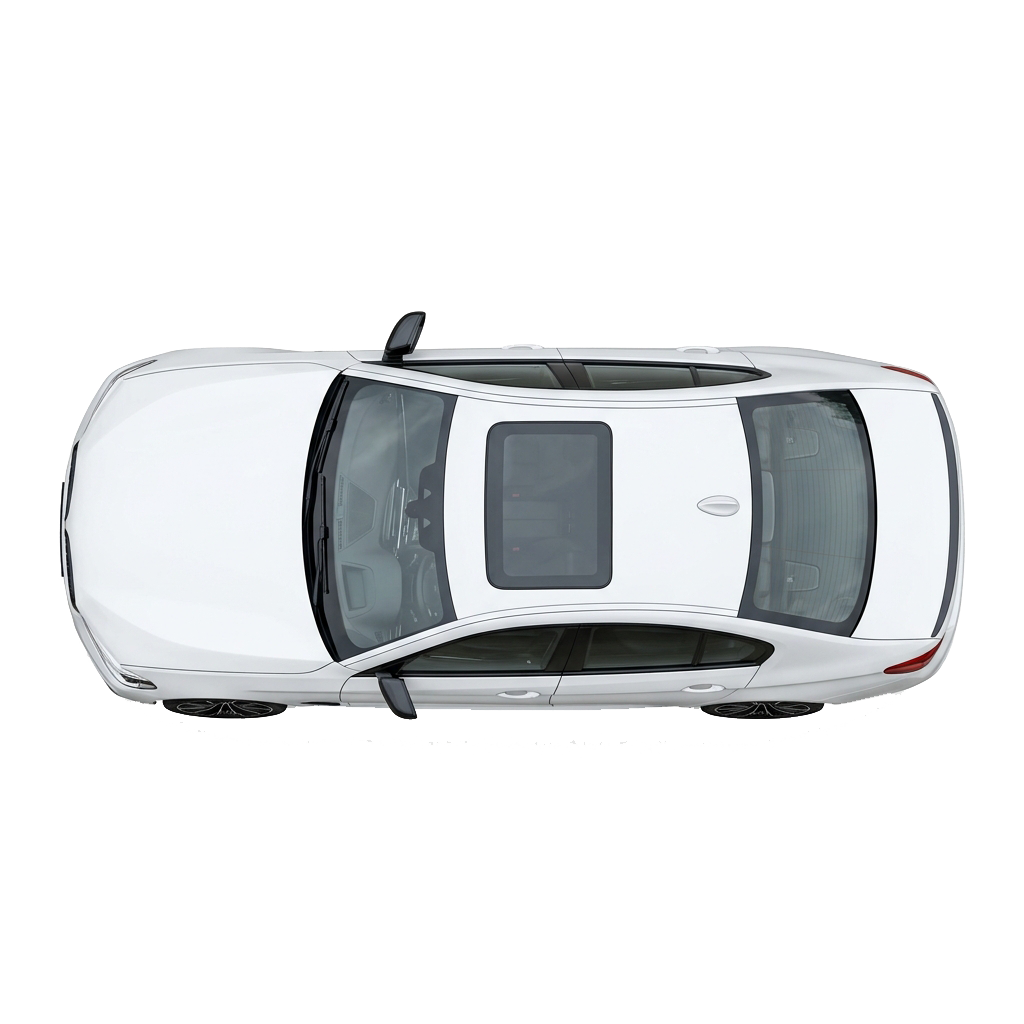
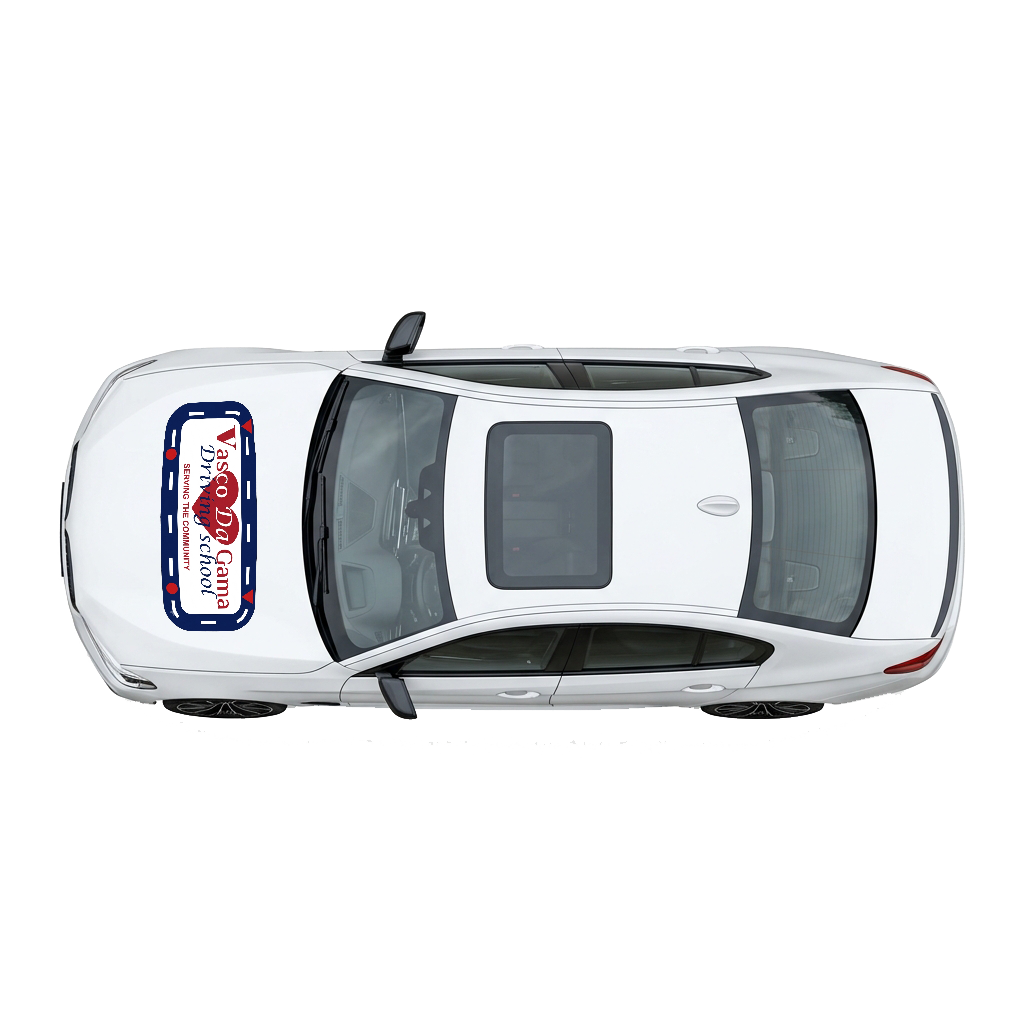
feat: add top view car asset and update branding in footer and header

Changed region(s): [[0.1562, 0.375, 0.25, 0.625]]

diff --git a/index.html b/index.html
@@ -94,7 +94,7 @@
             <a href="#hero" class="logo">
                 <img src="assets/logo.png" alt="Vasco da Gama Driving Academy Logo" class="logo-img">
             </a>
-
+            <!-- <h2>Vasco Da Gama Driving school</h2> -->
             <div class="nav-right">
                 <a href="tel:+263774302752" class="phone-link">+263 774 302 752</a>
                 <a href="#contact" class="btn btn-primary">Book Now</a>
@@ -647,9 +647,11 @@
             </a>
 
             <div class="footer-copy">
-                &copy; 2026 Driving Academy. All Rights Reserved.
-            </div>
+                &copy; 2026 Vasco Da Gama Driving School. All Rights Reserved </div>
 
+            <div class="footer-copy">
+                Developed by Leslie Sarai.
+            </div>
             <div class="footer-socials">
                 <!-- Instagram -->
                 <a href="https://www.instagram.com/vascodagamadrivingschool/" class="social-link"
